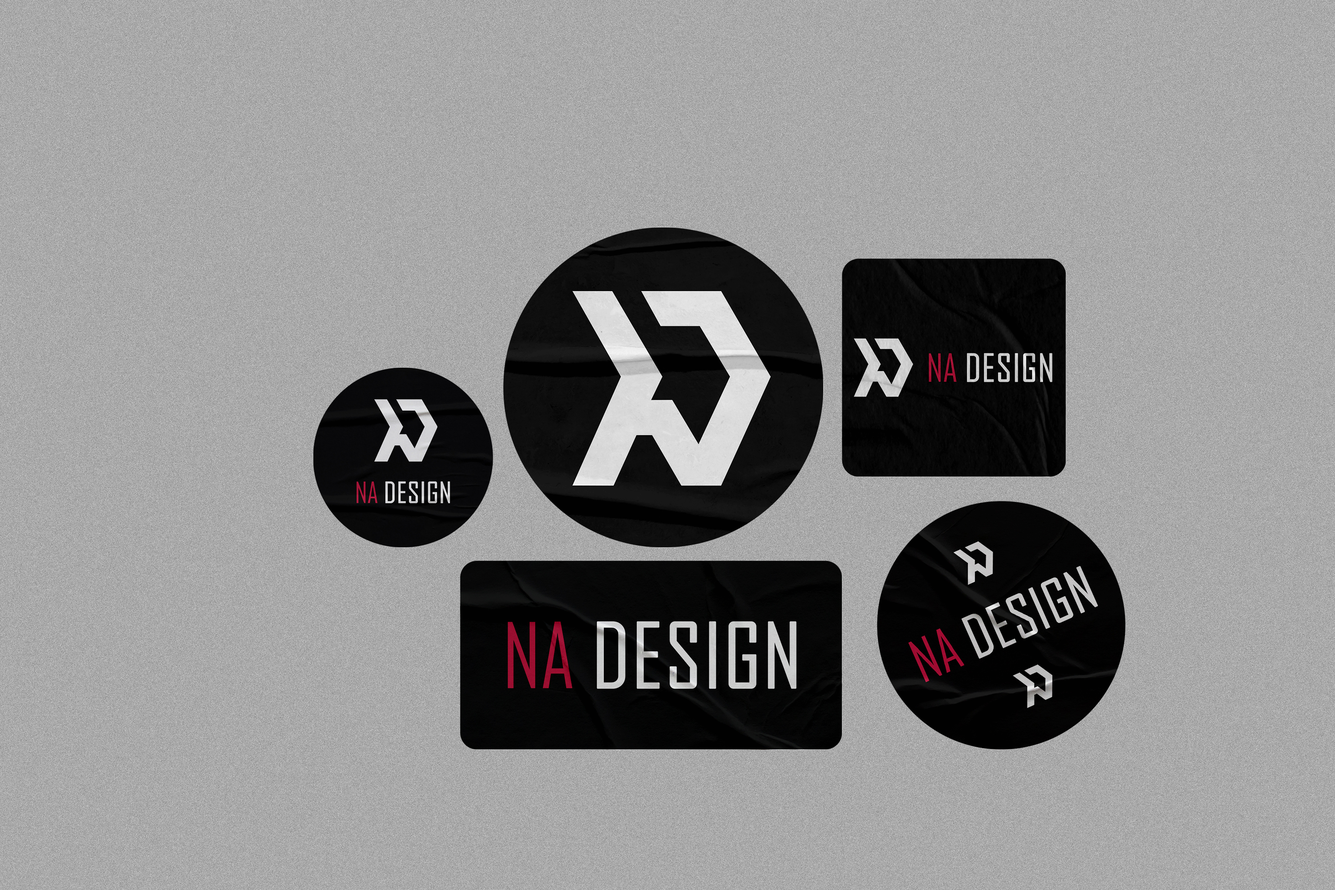
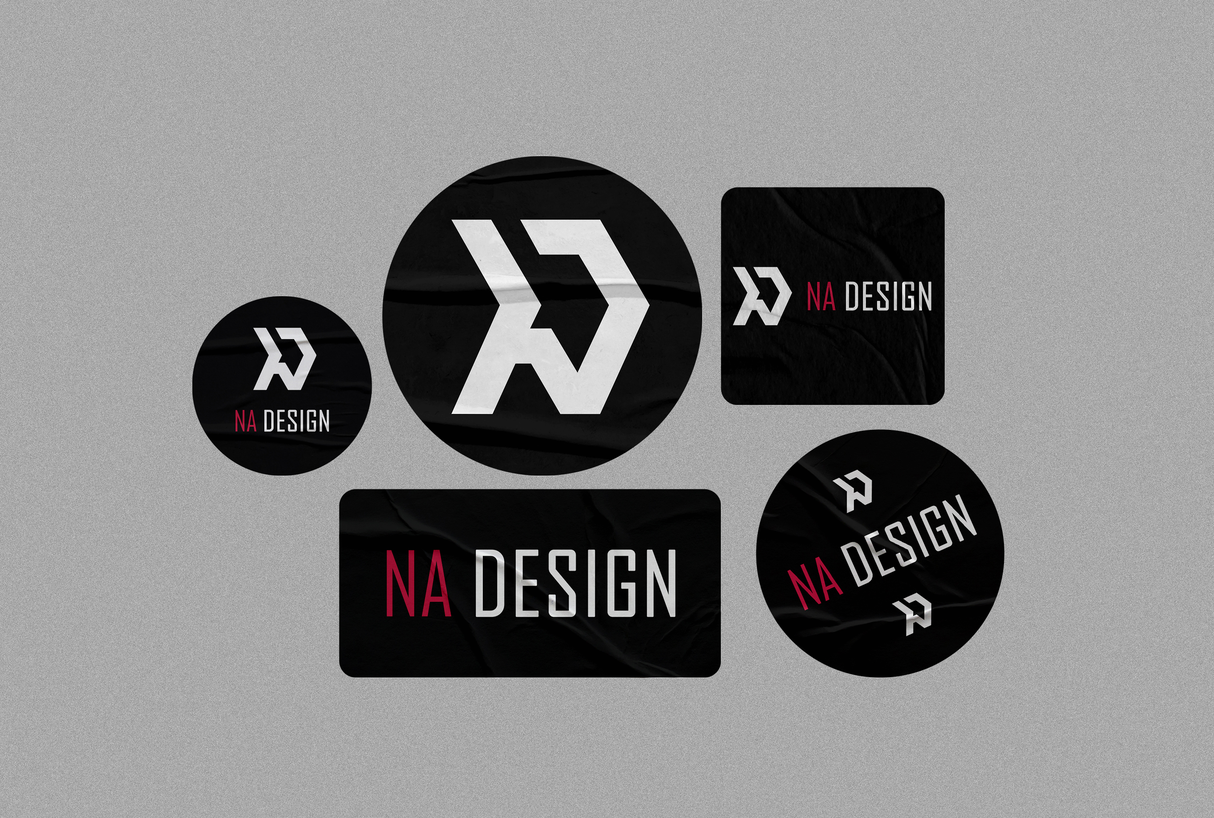
14/1

diff --git a/index.html b/index.html
@@ -243,6 +243,23 @@
               </div>
             </div>
 
+            <!-- Imagen 7 con su Modal -->
+            <div class="image-item">
+              <div class="hover-effect-3">
+                <label for="modal-checkbox-7">
+                  <img src="./assets/stickerNA.jpg" alt="Image 7" />
+                  <div class="overlay">
+                    <h3>Image 7</h3>
+                  </div>
+                </label>
+              </div>
+              <input type="checkbox" id="modal-checkbox-7" class="modal-checkbox" />
+              <div class="modal">
+                <label for="modal-checkbox-7" class="close">&times;</label>
+                <img src="./assets/stickerNA.jpg" alt="Expanded Image 7" class="modal-content" />
+              </div>
+            </div>
+
 
         </div>
       </div>
